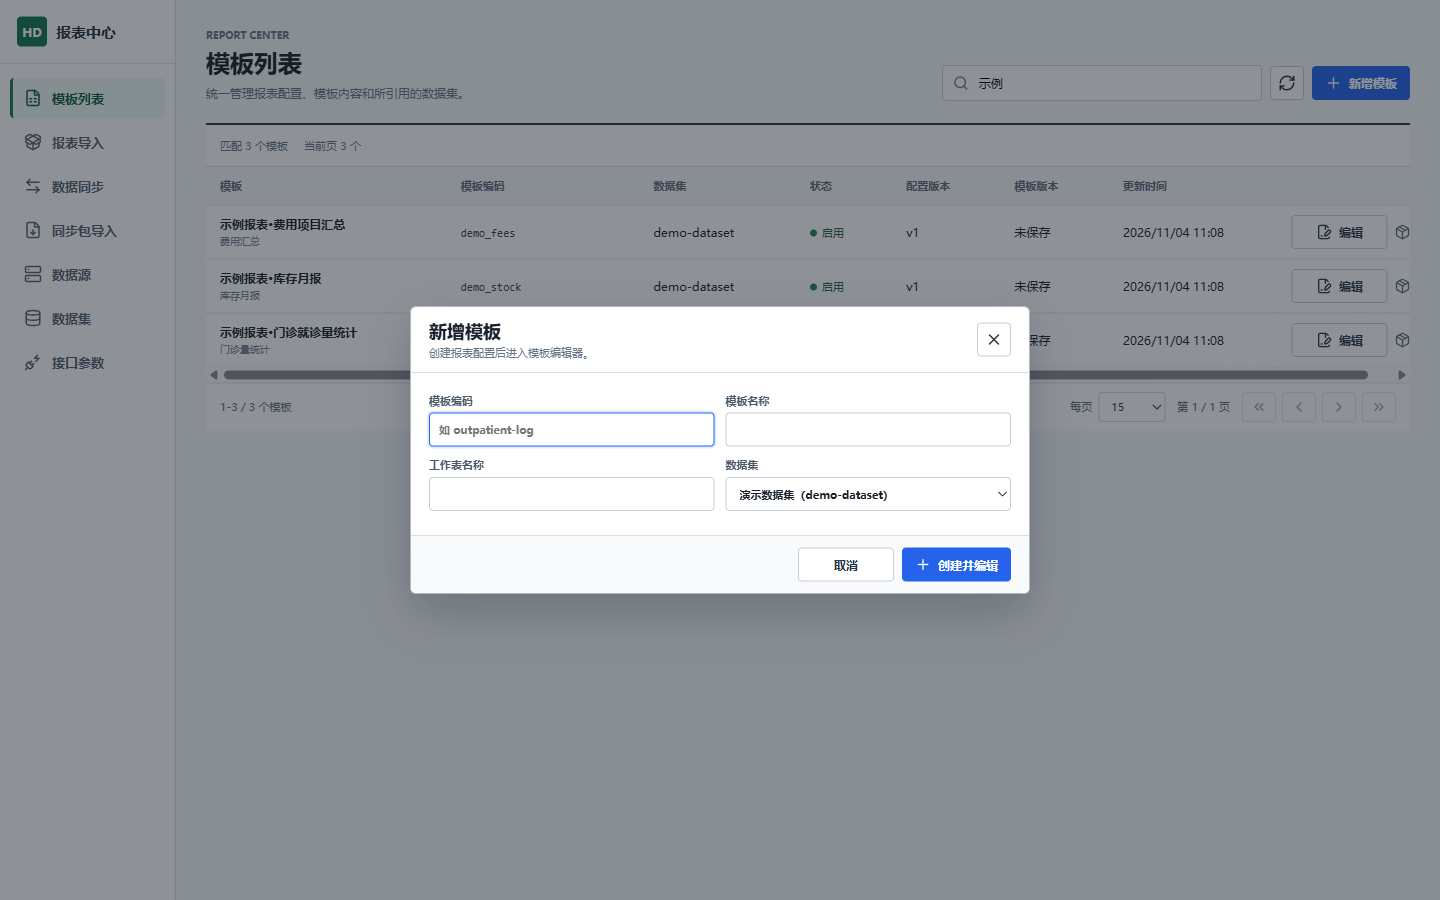
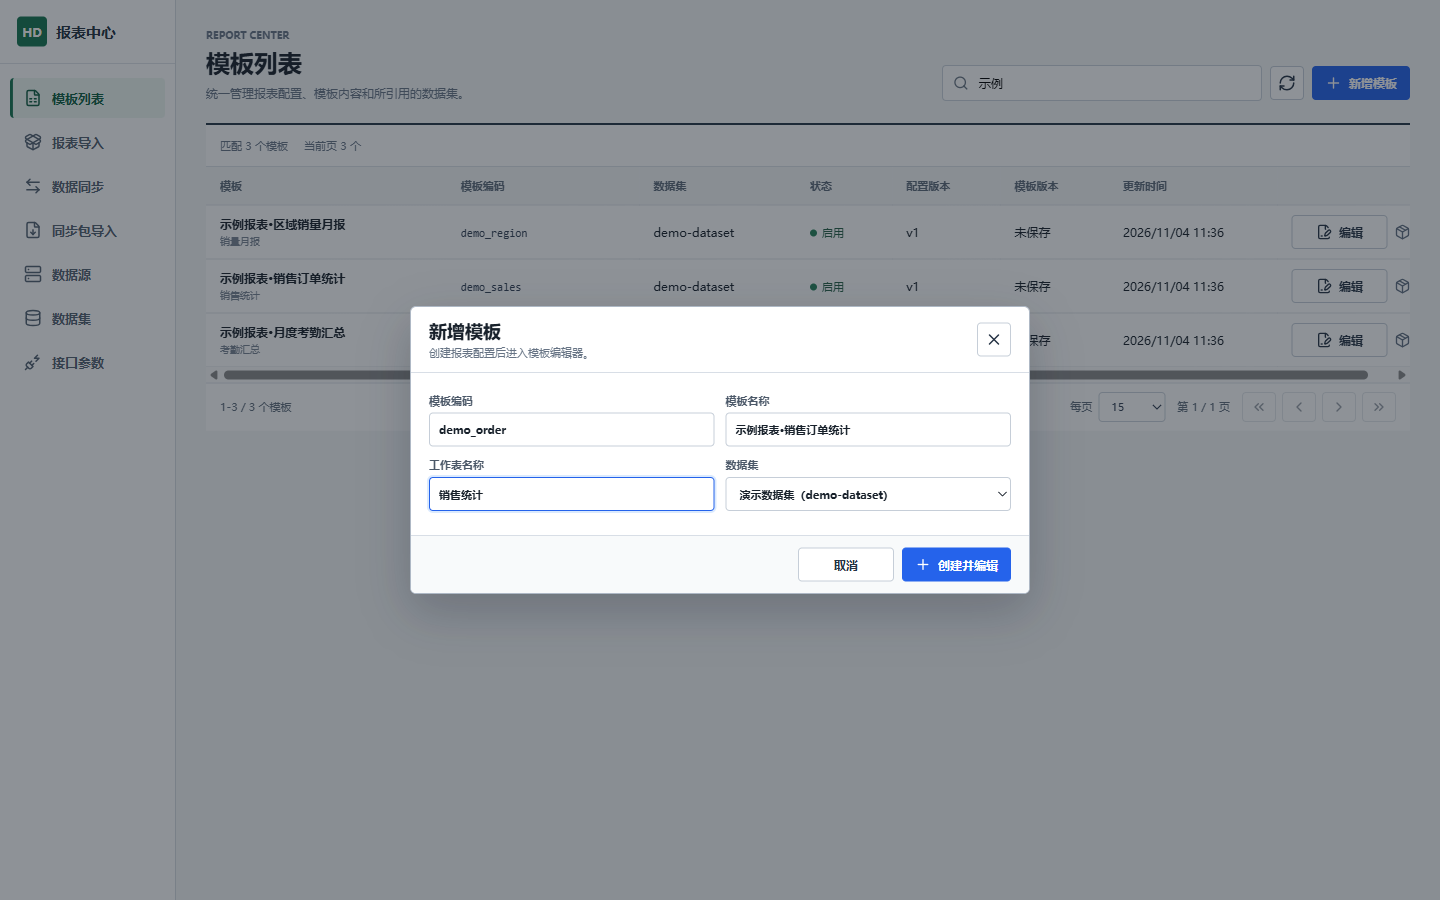
docs(readme): fill screenshots with neutral sales demo data

diff --git a/scripts/e2e/report-list/docs_shots.js b/scripts/e2e/report-list/docs_shots.js
@@ -1,9 +1,10 @@
 /**
  * README 界面截图生成脚本（演示数据脱敏出图）。
  *
- * 职责：临时通过 API 创建 3 个通用名演示模板，抓取 模板列表 / 新增模板弹窗 /
- * 模板设计器 三张截图写入 docs/images/ 供 README 首页使用；真实业务模板
- * 通过搜索过滤完全不进入画面，数据集下拉文字经 DOM 置换屏蔽；结束即删演示模板。
+ * 职责：临时通过 API 创建 3 个行业中性的演示模板（销售/考勤主题，不暗示医疗行业），
+ * 给其中一个保存带完整示例数据的模板快照，使设计器截图呈现真实填充效果；
+ * 抓取 模板列表 / 新增模板弹窗 / 模板设计器 三张截图写入 docs/images/ 供 README 使用；
+ * 结束即删演示模板，不遗留任何脏数据。
  *
  * 防泄露断言：每张截图保存前都校验画面内只有 demo_ 前缀模板或已脱敏元素，
  * 任一校验不通过立即中断且不落盘，杜绝真实业务数据出现在公开仓库。
@@ -17,12 +18,78 @@ const BASE_URL = process.env.E2E_BASE_URL || 'http://localhost:5175';
 /** 截图输出目录（随仓库提交，README 相对引用 docs/images/）。 */
 const IMG_DIR = path.join(__dirname, '..', '..', '..', 'docs', 'images');
 
-/** 演示模板定义：编码必须 demo_ 前缀（防泄露断言依赖），名称不带任何业务身份信息。 */
+/** 演示模板定义：编码必须 demo_ 前缀（防泄露断言依赖），名称行业中性与绑定数据集无关。 */
 const DEMO_REPORTS = [
-  { reportCode: 'demo_visits', name: '示例报表·门诊就诊量统计', sheetName: '门诊量统计' },
-  { reportCode: 'demo_fees', name: '示例报表·费用项目汇总', sheetName: '费用汇总' },
-  { reportCode: 'demo_stock', name: '示例报表·库存月报', sheetName: '库存月报' },
+  { reportCode: 'demo_sales', name: '示例报表·销售订单统计', sheetName: '销售统计' },
+  { reportCode: 'demo_region', name: '示例报表·区域销量月报', sheetName: '销量月报' },
+  { reportCode: 'demo_attendance', name: '示例报表·月度考勤汇总', sheetName: '考勤汇总' },
 ];
+
+/**
+ * 在 Univer 设计器画布上用键盘录入销售月报示例数据。
+ * 运行中的后端尚未包含模板保存接口（本地未提交的新路由），因此改走纯 UI 键入：
+ * 只在首次进入时点一下 A1 获得焦点，之后全部用 输入+Enter/Tab/方向键 导航，
+ * 行尾统一 Tab 到种子残留的 F 列 Delete 清空，再 ←×5 回到 A 列、↓ 到下一行，
+ * 完全不依赖固定行高坐标（种子模板行高不均，坐标点击曾导致整表错行）。
+ * @param {import('playwright-core').Page} page - 设计器页面。
+ * @returns {Promise<void>} 录入完成后返回。
+ */
+async function typeDemoContent(page) {
+  /** 在当前单元格输入内容并按指定键移动；内容为空时仅清空该格。 */
+  const put = async (value, move) => {
+    await page.keyboard.press('Delete');
+    if (value) await page.keyboard.type(value, { delay: 15 });
+    if (move) await page.keyboard.press(move);
+  };
+  /** 行尾清理：F 列 Delete 后 ←×5 回 A 列、↓ 到下一行。 */
+  const endRow = async () => {
+    await page.keyboard.press('Delete');
+    for (let index = 0; index < 5; index += 1) await page.keyboard.press('ArrowLeft');
+    await page.keyboard.press('ArrowDown');
+  };
+
+  await page.mouse.click(500, 320);
+  await put('示例销售月报（2026年11月）', 'Enter');
+  await put('统计周期：2026-11-01 至 2026-11-30　　编制部门：销售部', 'Enter');
+  // 跳过种子的空行 3，落到表头行 4。
+  await put('', 'Enter');
+  await put('区域', 'Tab');
+  await put('城市', 'Tab');
+  await put('销量（件）', 'Tab');
+  await put('销售额（元）', 'Tab');
+  await put('达成率', 'Tab');
+  await endRow();
+  await put('华东大区', 'Tab');
+  await put('上海', 'Tab');
+  await put('1286', 'Tab');
+  await put('385800', 'Tab');
+  await put('102.4%', 'Tab');
+  await endRow();
+  await put('华北大区', 'Tab');
+  await put('北京', 'Tab');
+  await put('964', 'Tab');
+  await put('289200', 'Tab');
+  await put('96.8%', 'Tab');
+  await endRow();
+  await put('华南大区', 'Tab');
+  await put('广州', 'Tab');
+  await put('1103', 'Tab');
+  await put('330900', 'Tab');
+  await put('99.2%', 'Tab');
+  await endRow();
+  await put('西南大区', 'Tab');
+  await put('成都', 'Tab');
+  await put('745', 'Tab');
+  await put('223500', 'Tab');
+  await put('88.6%', 'Tab');
+  await endRow();
+  await put('合计', 'Tab');
+  await put('', 'Tab');
+  await put('4098', 'Tab');
+  await put('1229400', '');
+  // 输入完成后回车一次收起编辑态，让截图呈现普通选中效果。
+  await page.keyboard.press('Enter');
+}
 
 /**
  * 调用后端接口并解析 JSON；非 2xx 或业务失败码时抛错中断。
@@ -32,8 +99,10 @@ const DEMO_REPORTS = [
  */
 async function api(urlPath, options = {}) {
   const response = await fetch(`${BASE_URL}${urlPath}`, options);
-  const body = await response.json();
-  if (!response.ok || body?.code !== 200) {
+  const rawText = await response.text();
+  // 部分接口可能返回空响应体，空串按 null 处理而不是解析炸掉。
+  const body = rawText ? JSON.parse(rawText) : null;
+  if (!response.ok || (body !== null && body?.code !== 200)) {
     throw new Error(`接口失败 ${options.method ?? 'GET'} ${urlPath} → ${response.status} ${body?.message ?? ''}`);
   }
   return body;
@@ -115,7 +184,7 @@ function assertSafeTitle(title) {
 }
 
 /**
- * 主流程：建演示模板 → 抓三张脱敏截图 → 删演示模板，输出图片路径清单。
+ * 主流程：建演示模板 → 保存示例数据快照 → 抓三张脱敏截图 → 删演示模板。
  * @returns {Promise<number>} 进程退出码：成功 0，失败 1。
  */
 async function main() {
@@ -150,12 +219,15 @@ async function main() {
     await page.screenshot({ path: path.join(IMG_DIR, 'report-list.png'), clip: { x: 0, y: 0, width: 1440, height: 470 } });
     console.log('已生成 docs/images/report-list.png');
 
-    // 阶段：新增模板弹窗——把数据集下拉的选中项文字置换为演示名后再出图。
+    // 阶段：新增模板弹窗——预填演示输入、置换数据集下拉文字后再出图。
     await page.locator('button.report-create-button').click();
     await page.waitForFunction(() => {
       const select = document.querySelector('.create-report-grid select');
       return select instanceof HTMLSelectElement && select.options.length > 0;
     }, null, { timeout: 10000 });
+    await page.locator('.create-report-grid label:has-text("模板编码") input').fill('demo_order');
+    await page.locator('.create-report-grid label:has-text("模板名称") input').fill('示例报表·销售订单统计');
+    await page.locator('.create-report-grid label:has-text("工作表名称") input').fill('销售统计');
     await page.evaluate(() => {
       const select = document.querySelector('.create-report-grid select');
       if (select?.selectedOptions[0]) select.selectedOptions[0].text = `演示数据集（${'demo-dataset'}）`;
@@ -164,24 +236,29 @@ async function main() {
     console.log('已生成 docs/images/report-create.png');
     await page.locator('.create-report-dialog button[type="button"]').first().click();
 
-    // 阶段：模板设计器——打开第一个演示模板，标题防泄露校验通过后出图。
+    // 阶段：模板设计器——打开演示模板，用键盘逐格录入销售示例数据后出图。
     await page.goto(`${BASE_URL}/reports/${DEMO_REPORTS[0].reportCode}`, { waitUntil: 'domcontentloaded' });
     await page.waitForFunction((name) => {
       const heading = document.querySelector('header[aria-label="模板命令栏"] h1');
       return heading?.textContent?.trim() === name;
     }, DEMO_REPORTS[0].name, { timeout: 15000 });
+    // 等待 Univer 画布渲染完成再开始键入，避免焦点未落到网格。
+    await page.waitForFunction(() => document.querySelector('canvas') !== null, null, { timeout: 15000 });
+    await page.waitForTimeout(1500);
+    await typeDemoContent(page);
+    await page.waitForTimeout(500);
     const editorTitle = await page.locator('header[aria-label="模板命令栏"] h1').textContent();
     assertSafeTitle(editorTitle?.trim() ?? '');
     await page.screenshot({ path: path.join(IMG_DIR, 'report-editor.png') });
     console.log('已生成 docs/images/report-editor.png');
-    console.log(`（演示模板使用数据集编码 ${datasetCode}，仅作创建占位，截图未展示真实数据集名）`);
+    console.log(`（演示模板使用数据集编码 ${datasetCode} 仅作创建占位；设计器数据为静态示例，不展示真实数据集）`);
     return 0;
   } catch (exception) {
     console.error(`截图生成失败：${exception instanceof Error ? exception.message : String(exception)}`);
     return 1;
   } finally {
     if (browser) await browser.close().catch(() => {});
-    // 阶段：无论成败都清理演示模板，避免公开画面之外遗留脏数据。
+    // 阶段：无论成败都清理演示模板（含其模板快照），避免公开画面之外遗留脏数据。
     await deleteDemoReports();
   }
 }
